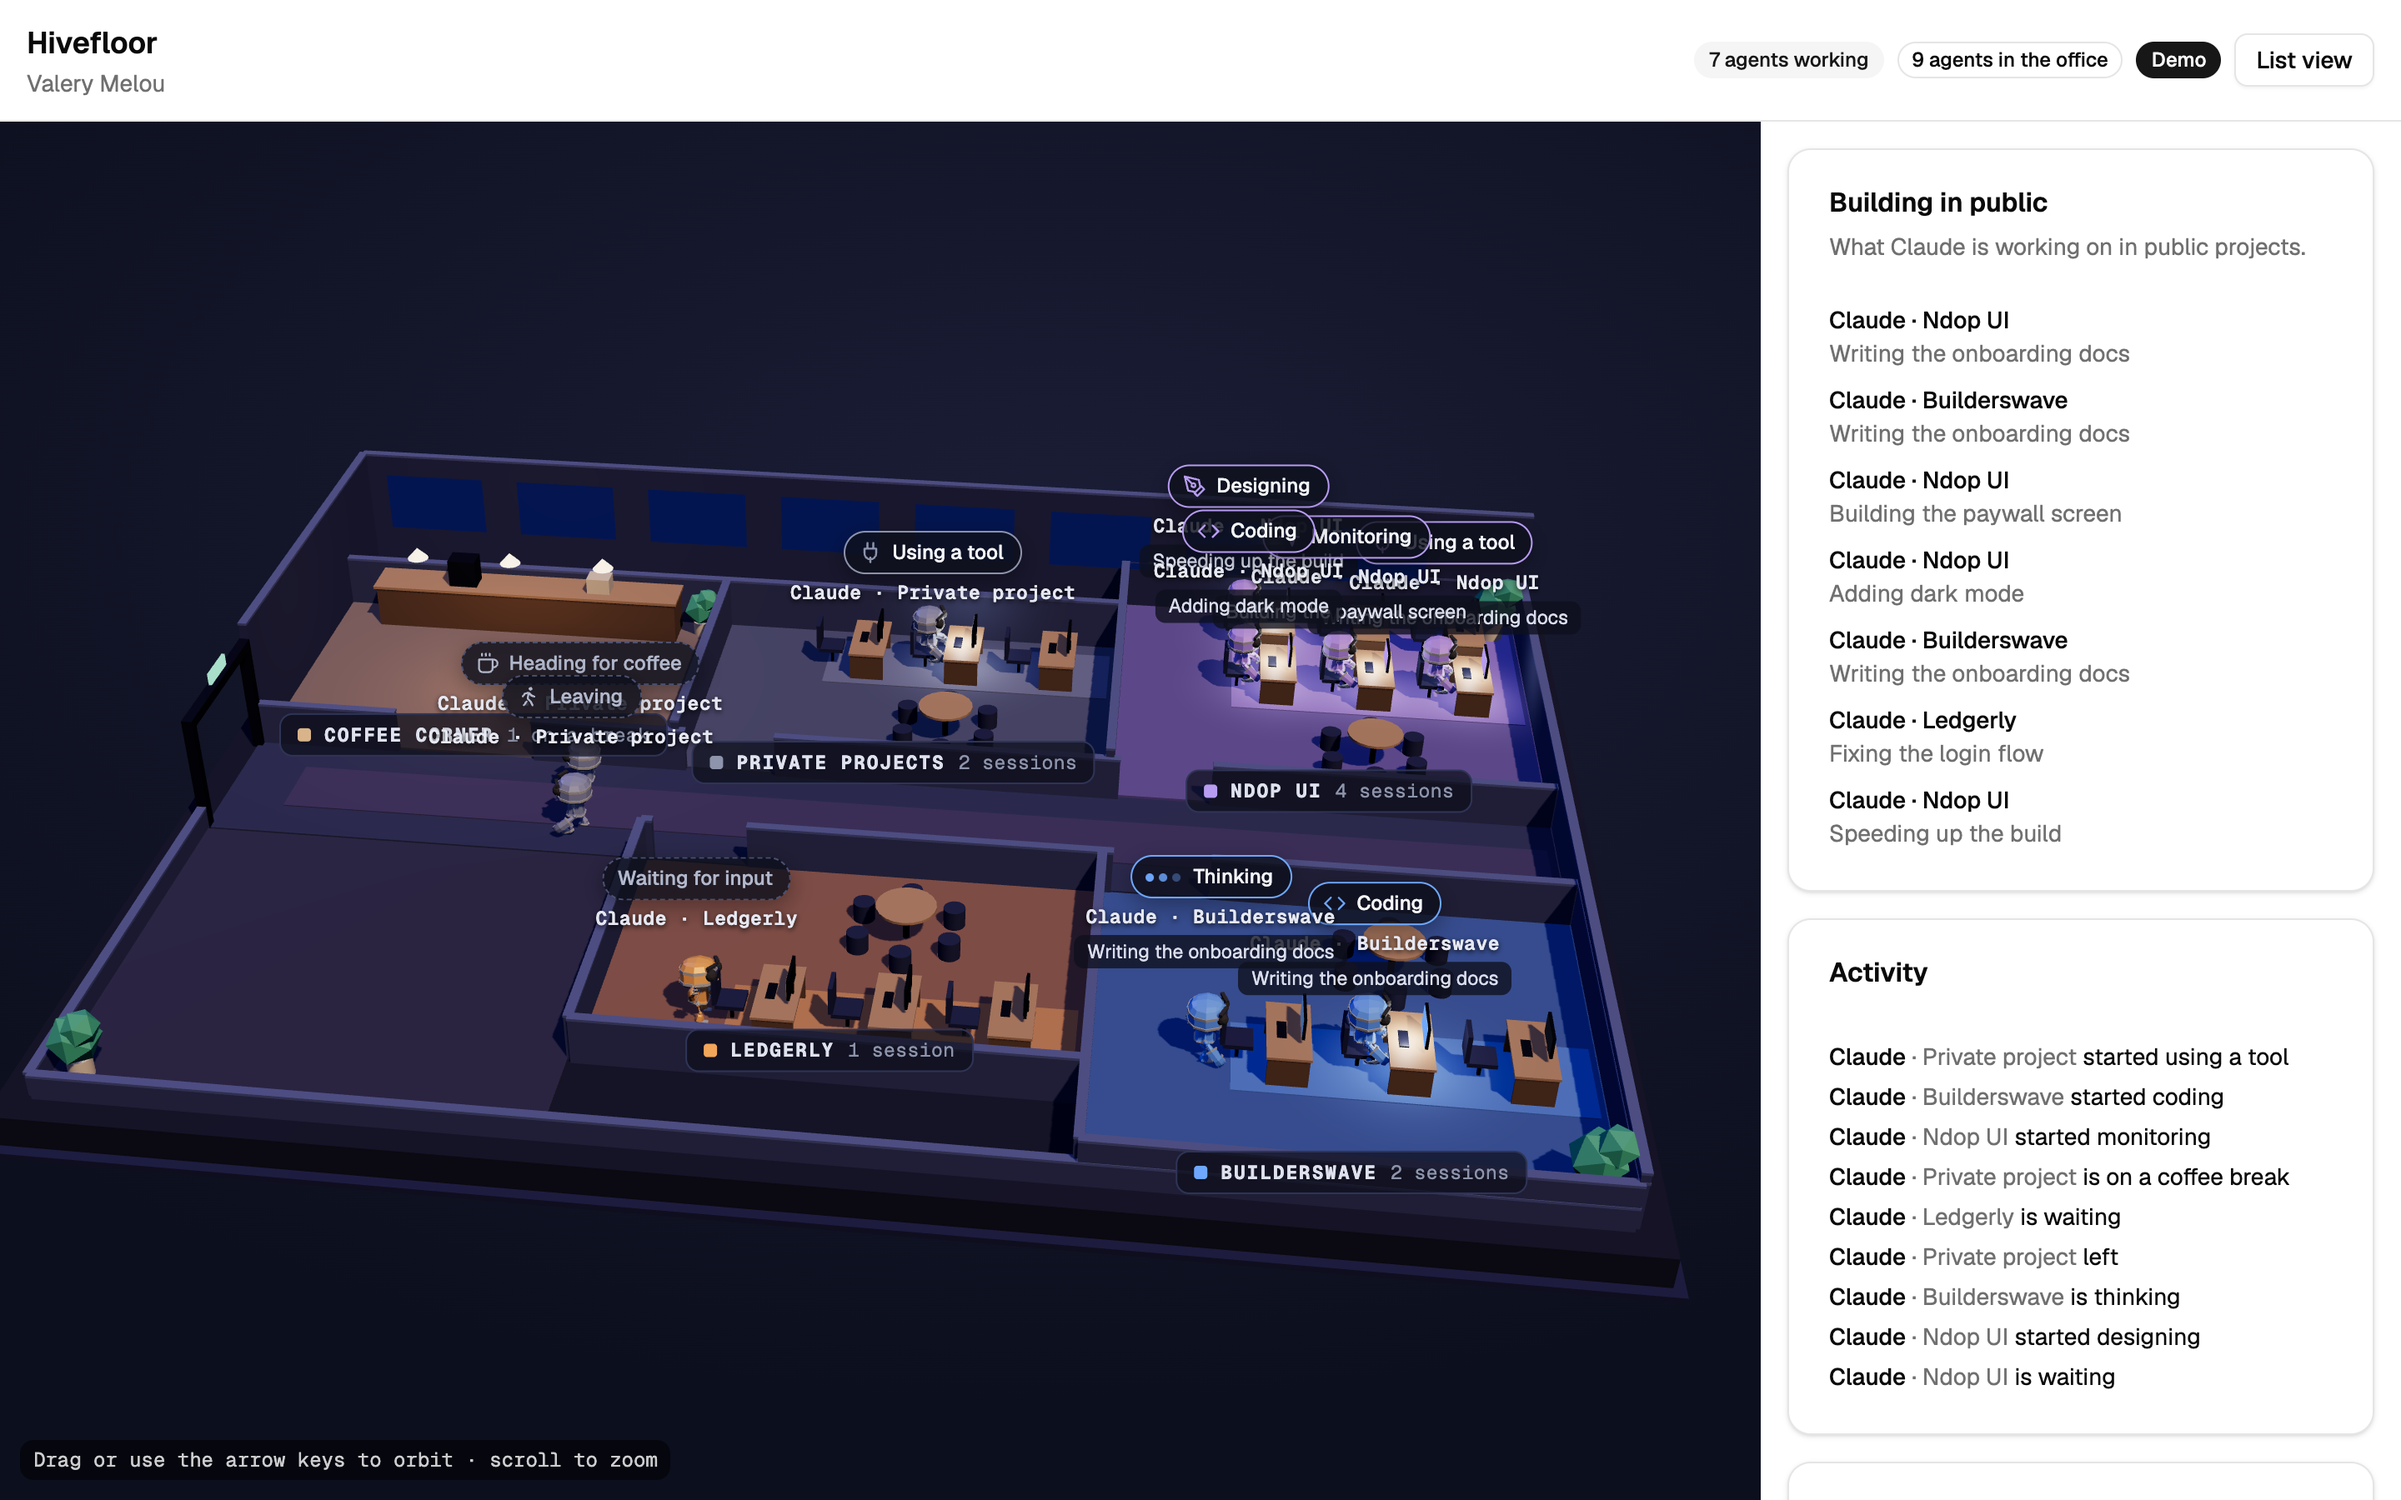
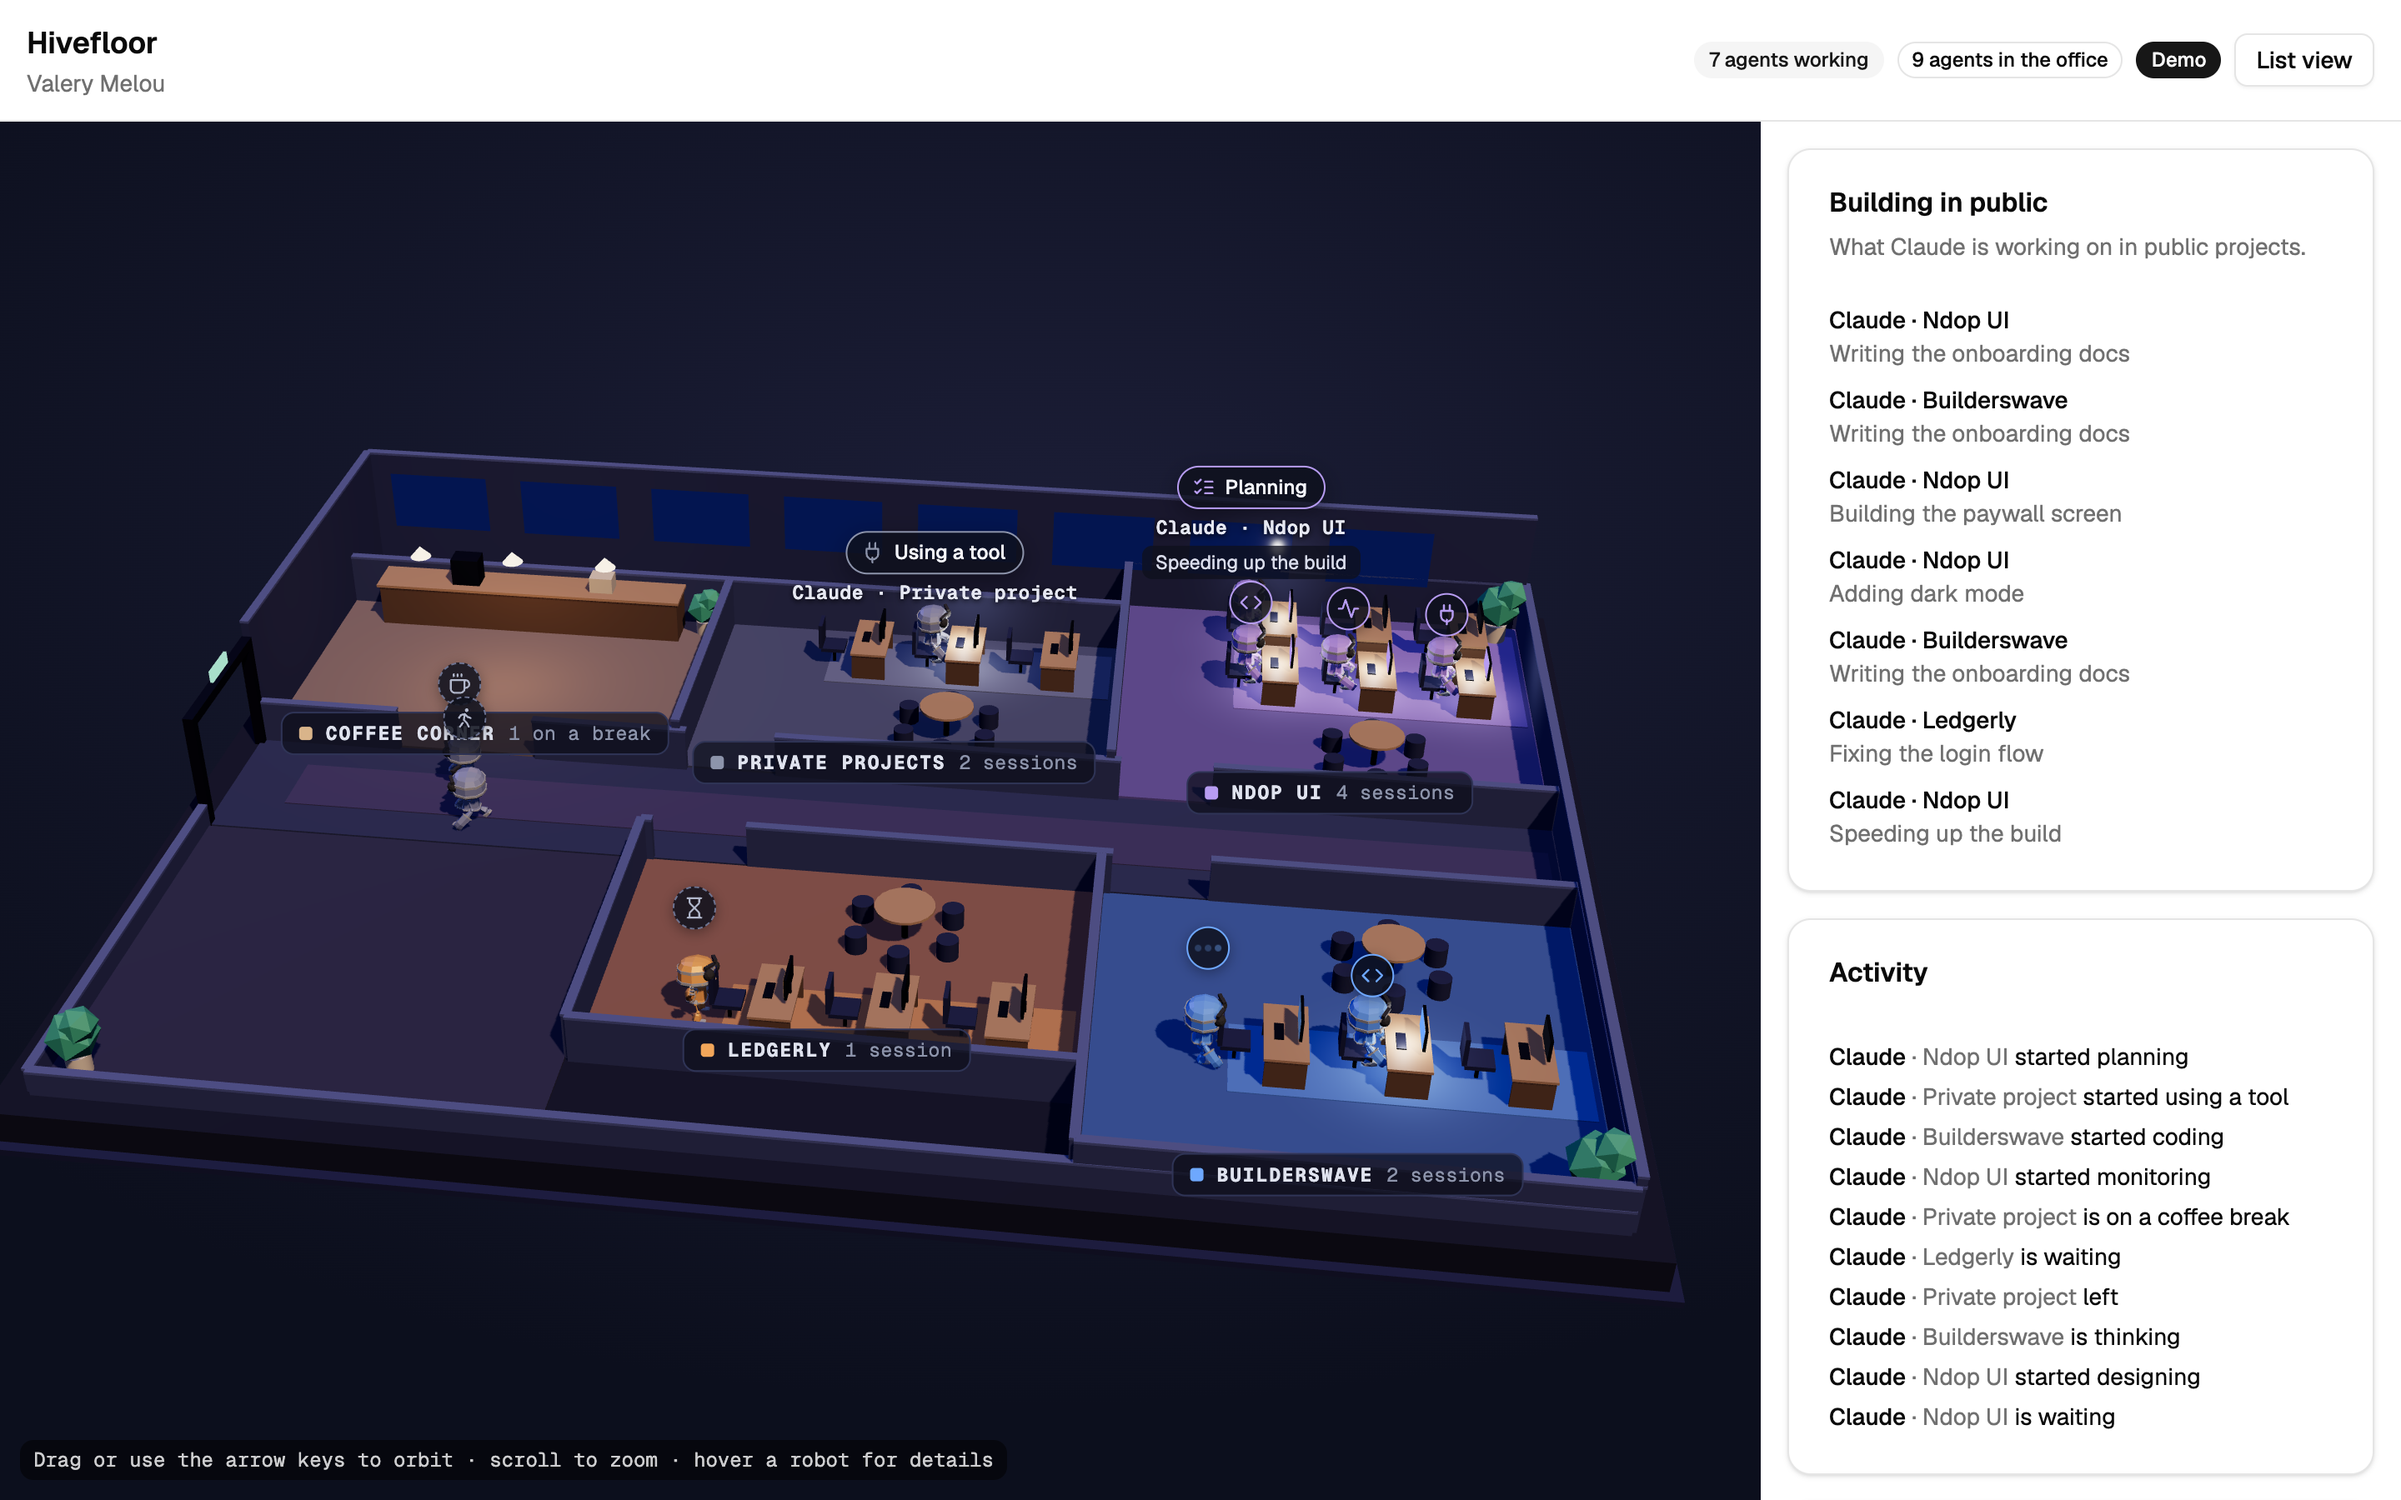
docs: describe the compact robot tags

diff --git a/docs/PRD.md b/docs/PRD.md
@@ -104,21 +104,21 @@ Three deliverables: a CLI that runs on the owner's machine, a relay on Cloudflar
 
 **Office web app (`apps/web`)**
 
-| ID  | Requirement                                                                                                                                                                                                                                      | Priority |
-| --- | ------------------------------------------------------------------------------------------------------------------------------------------------------------------------------------------------------------------------------------------------ | -------- |
-| W1  | The 3D office is built from the live room list: rooms in corridor bays and floors, a coffee corner and an exit, each room sized to its current desk rows (E1–E9).                                                                                | Must     |
-| W2  | One robot per robot record. Main sessions are full size in the room's colour; subagents are smaller and lighter. Animations map to status: Sitting, Idle, Walking, Wave.                                                                         | Must     |
-| W3  | Movement along waypoints (room door, corridor lane, target door, spot). A new status mid-walk re-plans from the current position.                                                                                                                | Must     |
-| W4  | Floating tags: tool badge, "Claude · Project" or "Claude · Private project", and the goal line for public projects. All text is inserted as text, never as HTML.                                                                                 | Must     |
-| W5  | Overlay: title and owner, counts, live status, feed (built from deltas, up to 20 entries), Building in public card, today's counts, privacy note.                                                                                                | Must     |
-| W6  | Connection handling: reconnect with backoff, a visible "Reconnecting" state, and an "Office closed until 01:00" state, inferred from a 429 or Cloudflare error 1027 response because the Worker can't run once the daily limit is reached (H11). | Must     |
-| W7  | Demo mode (`#demo`) runs the built-in simulator with no relay, for the README, local development and tests.                                                                                                                                      | Must     |
-| W8  | Camera: drag to orbit, scroll or pinch to zoom, keyboard orbit with arrow keys, slow auto-rotate until the first interaction, angle and distance limits.                                                                                         | Should   |
-| W9  | Clicking or tapping a robot opens a small card: role, project, status, time in status.                                                                                                                                                           | Should   |
-| W10 | Respect `prefers-reduced-motion` (no auto-rotate, robots move instantly). Pause rendering when the tab is hidden. Low-power mode on phones turns off shadows and desk lights.                                                                    | Must     |
-| W11 | A list view of all robots, as an accessible table, is always one click away. It is the default when WebGL is unavailable.                                                                                                                        | Must     |
-| W12 | Phone layout: the feed collapses to two rows with a "Show more" button, and the camera uses a wider default angle.                                                                                                                               | Must     |
-| W13 | Character sets are pluggable: a model file plus a map of clip names. The default is the CC0 RobotExpressive model.                                                                                                                               | Should   |
+| ID  | Requirement                                                                                                                                                                                                                                                                                                       | Priority |
+| --- | ----------------------------------------------------------------------------------------------------------------------------------------------------------------------------------------------------------------------------------------------------------------------------------------------------------------- | -------- |
+| W1  | The 3D office is built from the live room list: rooms in corridor bays and floors, a coffee corner and an exit, each room sized to its current desk rows (E1–E9).                                                                                                                                                 | Must     |
+| W2  | One robot per robot record. Main sessions are full size in the room's colour; subagents are smaller and lighter. Animations map to status: Sitting, Idle, Walking, Wave.                                                                                                                                          | Must     |
+| W3  | Movement along waypoints (room door, corridor lane, target door, spot). A new status mid-walk re-plans from the current position.                                                                                                                                                                                 | Must     |
+| W4  | Floating tags: a small bulb with the icon for the kind of work. On hover, and for about 3 s after a change (one robot per room at a time), it opens to show the tool badge, "Claude · Project" or "Claude · Private project", and the goal line for public projects. All text is inserted as text, never as HTML. | Must     |
+| W5  | Overlay: title and owner, counts, live status, feed (built from deltas, up to 20 entries), Building in public card, today's counts, privacy note.                                                                                                                                                                 | Must     |
+| W6  | Connection handling: reconnect with backoff, a visible "Reconnecting" state, and an "Office closed until 01:00" state, inferred from a 429 or Cloudflare error 1027 response because the Worker can't run once the daily limit is reached (H11).                                                                  | Must     |
+| W7  | Demo mode (`#demo`) runs the built-in simulator with no relay, for the README, local development and tests.                                                                                                                                                                                                       | Must     |
+| W8  | Camera: drag to orbit, scroll or pinch to zoom, keyboard orbit with arrow keys, slow auto-rotate until the first interaction, angle and distance limits.                                                                                                                                                          | Should   |
+| W9  | Clicking or tapping a robot opens a small card: role, project, status, time in status.                                                                                                                                                                                                                            | Should   |
+| W10 | Respect `prefers-reduced-motion` (no auto-rotate, robots move instantly). Pause rendering when the tab is hidden. Low-power mode on phones turns off shadows and desk lights.                                                                                                                                     | Must     |
+| W11 | A list view of all robots, as an accessible table, is always one click away. It is the default when WebGL is unavailable.                                                                                                                                                                                         | Must     |
+| W12 | Phone layout: the feed collapses to two rows with a "Show more" button, and the camera uses a wider default angle.                                                                                                                                                                                                | Must     |
+| W13 | Character sets are pluggable: a model file plus a map of clip names. The default is the CC0 RobotExpressive model.                                                                                                                                                                                                | Should   |
 
 **Also required in the web app:** a configurable base path (`/` by default, `/office/` on the maintainer's site) and an embed mode (`#embed`) that hides the overlay except a small live badge, used as the landing page hero.
 
@@ -533,5 +533,9 @@ Tip: once M2 and M4 work, install the hook on this repo itself. Claude Code buil
 - [x] **Away robots leave the building** and walk back in on their next event (H9); they stay in the list view.
 - [x] **Browsers without a GPU** count as low-power (W10), as phones do.
 - [x] **`#demo-crowd`** starts the simulator with ten sessions, the load the frame-rate targets are set for.
+
+**Decided after M6 (8 November 2026)** — see [ADR 0015](adr/0015-3d-office.md)
+
+- [x] **Compact tags:** three-line tags collided at neighbouring desks, so a tag is an icon until it's hovered or its robot's activity changes (W4).
 
 **Still open:** nothing right now. Revisit this list at the start of each milestone.

diff --git a/docs/adr/0015-3d-office.md b/docs/adr/0015-3d-office.md
@@ -32,6 +32,8 @@ M6 draws the office: an elastic building, robots that walk and sit, floating tag
 
 **Status mapping.** Working robots sit. Thinking and waiting robots stand by their desk, while subagents keep their seat when thinking. Idle robots go for coffee. Away robots leave the building and walk back in on their next event (H9).
 
+**Compact tags.** Desks are 2 m apart, so a three-line tag collides with its neighbour's. A tag is a small bulb with the icon for the kind of work, and opens to the full text on hover. It also opens for about 3 s when a robot's activity changes, one robot per room at a time, so a visitor who isn't touching anything still sees what is happening. Phones have no hover, so a tap opens the robot card. The project name is on the room label and goals are in Building in public, so nothing is lost from the default view.
+
 **Picking.** A click counts for the nearest robot within 24 pixels of the line from its feet to its tag, because small far-away robots are hard to hit exactly.
 
 **Testing.** Playwright runs against the production build with the production headers, so a policy violation fails a test. `#demo-crowd` starts ten sessions for the frame-rate script. WebGL needs software rendering on CI, so walking scenarios use generous timeouts and two workers.
@@ -42,7 +44,7 @@ M6 draws the office: an elastic building, robots that walk and sit, floating tag
 - Good: the overlay doesn't wait for Three.js, and the list view still works if the scene fails to load.
 - Good: the Content Security Policy didn't change.
 - Bad: with several floors, an upper slab hides part of the floor below from steep angles; visitors can orbit, and the list view shows everyone.
-- Bad: tags can overlap in a crowded room.
+- Bad: an icon alone says less than text; a visitor learns the icons from the moments they open.
 - Bad: when a room grows, its walls rise over 600 ms, but its furniture appears at once.
 
 ## Alternatives considered
